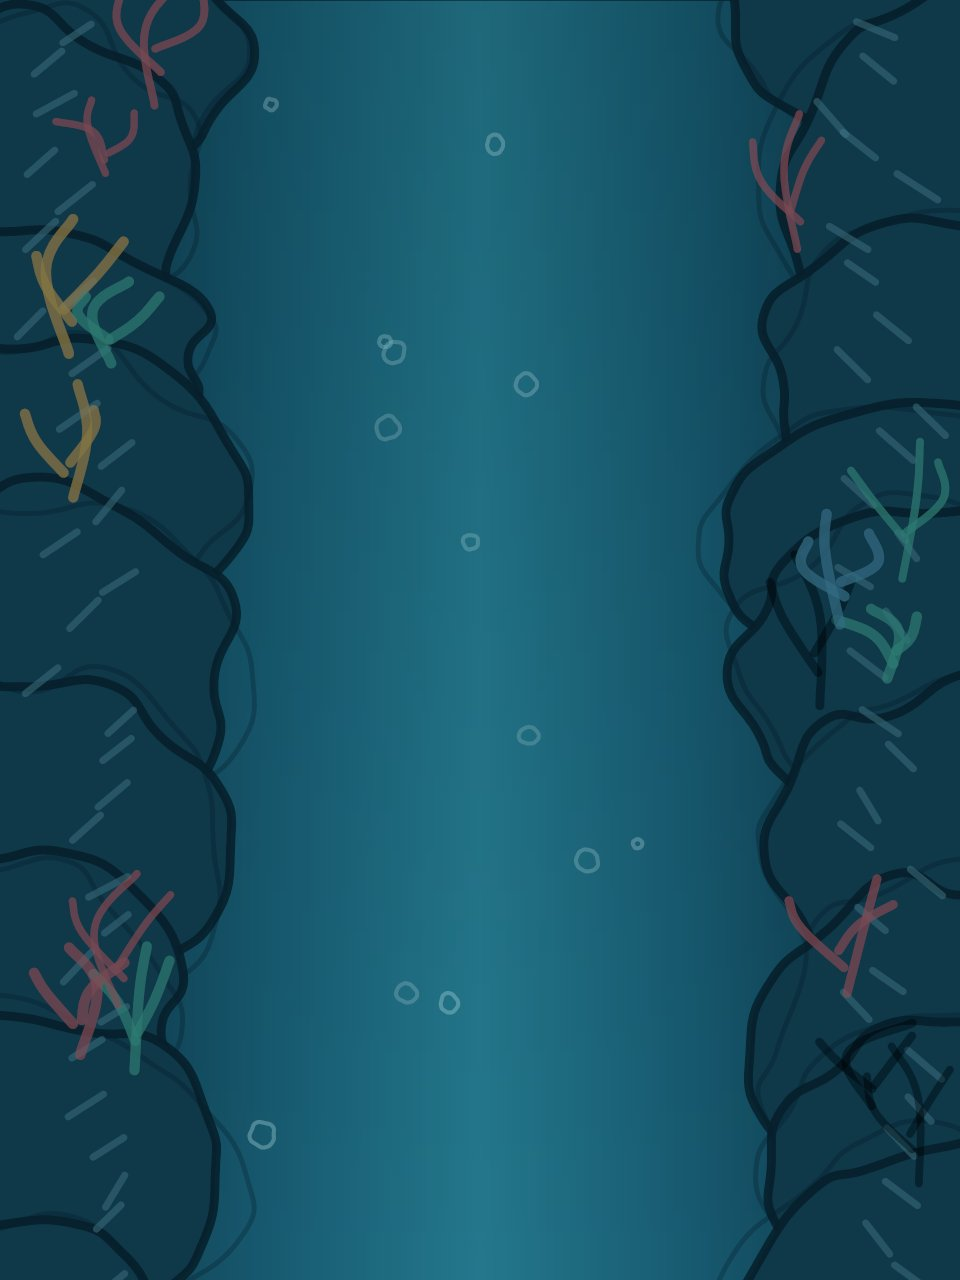
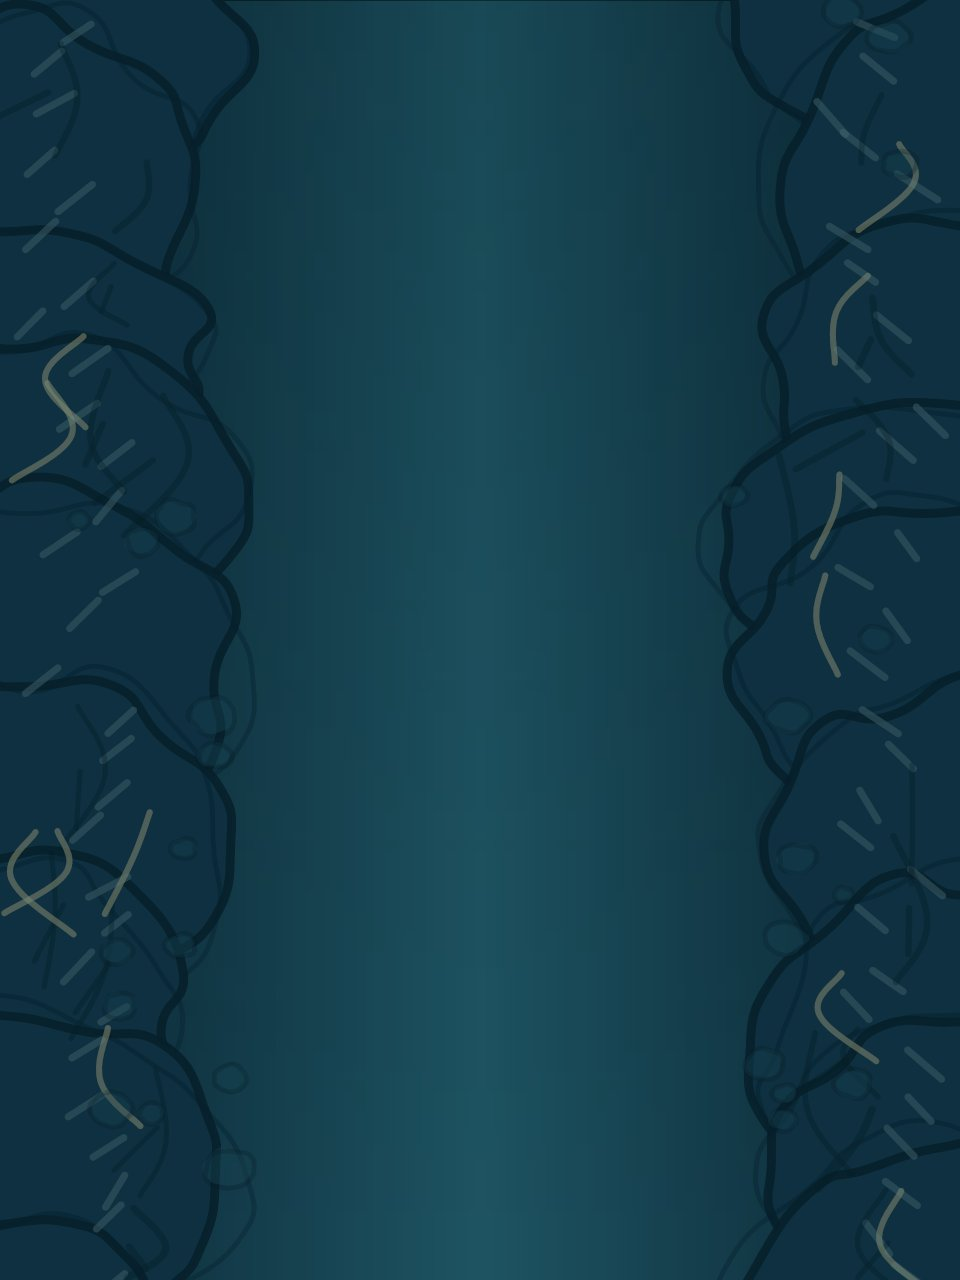
Put the game back in a cave
Redrawing the background quietly turned the place underwater: rising
bubbles, seaweed and coral on the walls, a bright aqua channel. The
setting is a cave. The bubbles and weeds give way to cracks running
through the stone, pale mineral veins and loose rubble, and the palette
drops from sunlit water to dim rock.

Six game-over lines still described water — bubbles, a current, the
surface — and now describe the cave instead. The .ocean-page and
.water-light classes are renamed to match, and the caustic-looking glow
over the playfield is now a neutral one.

The shiruko sand goes back to a top-down view: the face of the biscuit
with its docking holes, and only a thin edge of filling below it.

diff --git a/app/game-over-lines.ts b/app/game-over-lines.ts
@@ -7,20 +7,20 @@ export const GAME_OVER_LINES = [
   'おやつに夢中だった。',
   '洞窟が、急に静かになった。',
   'うしろに、気配がする。',
-  '水の流れが、止まった。',
+  '風の音が、ふっと止まった。',
   'もう一枚が、遠かった。',
   'あっ、目が合った。',
   '岩だと思ったのに。',
   'サンドの袋が、カサッ。',
   'ここ、行き止まりかも。',
-  '泡がひとつ、はじけた。',
+  '小石が、ころんと落ちた。',
   '曲がるのが、少し遅かった。',
   '近くで、影がゆれた。',
   'おいしい音は、隠せない。',
   'ひれが、ぴたりと止まった。',
   '暗がりが、こっちを見た。',
   '岩のすき間に、何かいる。',
-  '水音が、ひとつ増えた。',
+  '足音が、ひとつ増えた。',
   'さっきの岩、動いた？',
   '夢中で、奥まで来すぎた。',
   'しるこサンド、落としちゃった。',
@@ -29,7 +29,7 @@ export const GAME_OVER_LINES = [
   'ひと口ぶん、欲張った。',
   'もう少しで、取れたのに。',
   '洞窟の奥が、ざわざわする。',
-  '泡の向こうに、目がふたつ。',
+  '暗がりの奥に、目がふたつ。',
   'こっそり進んだ、つもり。',
   '岩陰に、先回りされてた。',
   'サクッ……と音が響いた。',
@@ -37,13 +37,13 @@ export const GAME_OVER_LINES = [
   '尾びれが、びっくりした。',
   'おやつの道は、罠だった？',
   'ふり返るのが、こわい。',
-  '水面の光が、消えた。',
+  '天井のすき間の光が、消えた。',
   'すぐそこまで、来ていた。',
   '岩が、ごろりと笑った。',
   '足音じゃない音がする。',
   'だれかの息が、近すぎる。',
   'しるこサンドは、渡さない。',
-  '目印の泡が、消えちゃった。',
+  '目印の小石を、見失った。',
   'この先は、暗すぎた。',
   '岩の向こうで、にやり。',
   'ひと休みには、早かった。',

diff --git a/app/globals.css b/app/globals.css
@@ -46,7 +46,7 @@ button:disabled {
   cursor: wait;
   opacity: 0.7;
 }
-.ocean-page {
+.cave-page {
   height: 100svh;
   display: flex;
   flex-direction: column;
@@ -144,11 +144,11 @@ button:disabled {
   background: #0b3142;
   touch-action: none;
 }
-.water-light {
+.cave-light {
   position: absolute;
   inset: 0;
   background:
-    radial-gradient(ellipse at 50% 45%, #8be0d71f, transparent 52%),
+    radial-gradient(ellipse at 50% 45%, #cfe0e21c, transparent 52%),
     linear-gradient(
       90deg,
       #06131c63,
@@ -529,7 +529,7 @@ canvas {
   }
 }
 @media (max-width: 720px) {
-  .ocean-page {
+  .cave-page {
     padding: 0 15px;
   }
   .topbar {

diff --git a/app/page.tsx b/app/page.tsx
@@ -5,7 +5,7 @@ import { withBase } from './base-path';
 import GamePanel from './game';
 export default function Home() {
   return (
-    <main className="ocean-page">
+    <main className="cave-page">
       <header className="topbar">
         <span>
           <Cookie size={23} /> しるこさんぽ

diff --git a/app/game.tsx b/app/game.tsx
@@ -451,7 +451,7 @@ export default function GamePanel() {
         onPointerCancel={release}
         onLostPointerCapture={release}
       >
-        <div className="water-light" />
+        <div className="cave-light" />
         <canvas
           ref={canvas}
           width={WIDTH}
